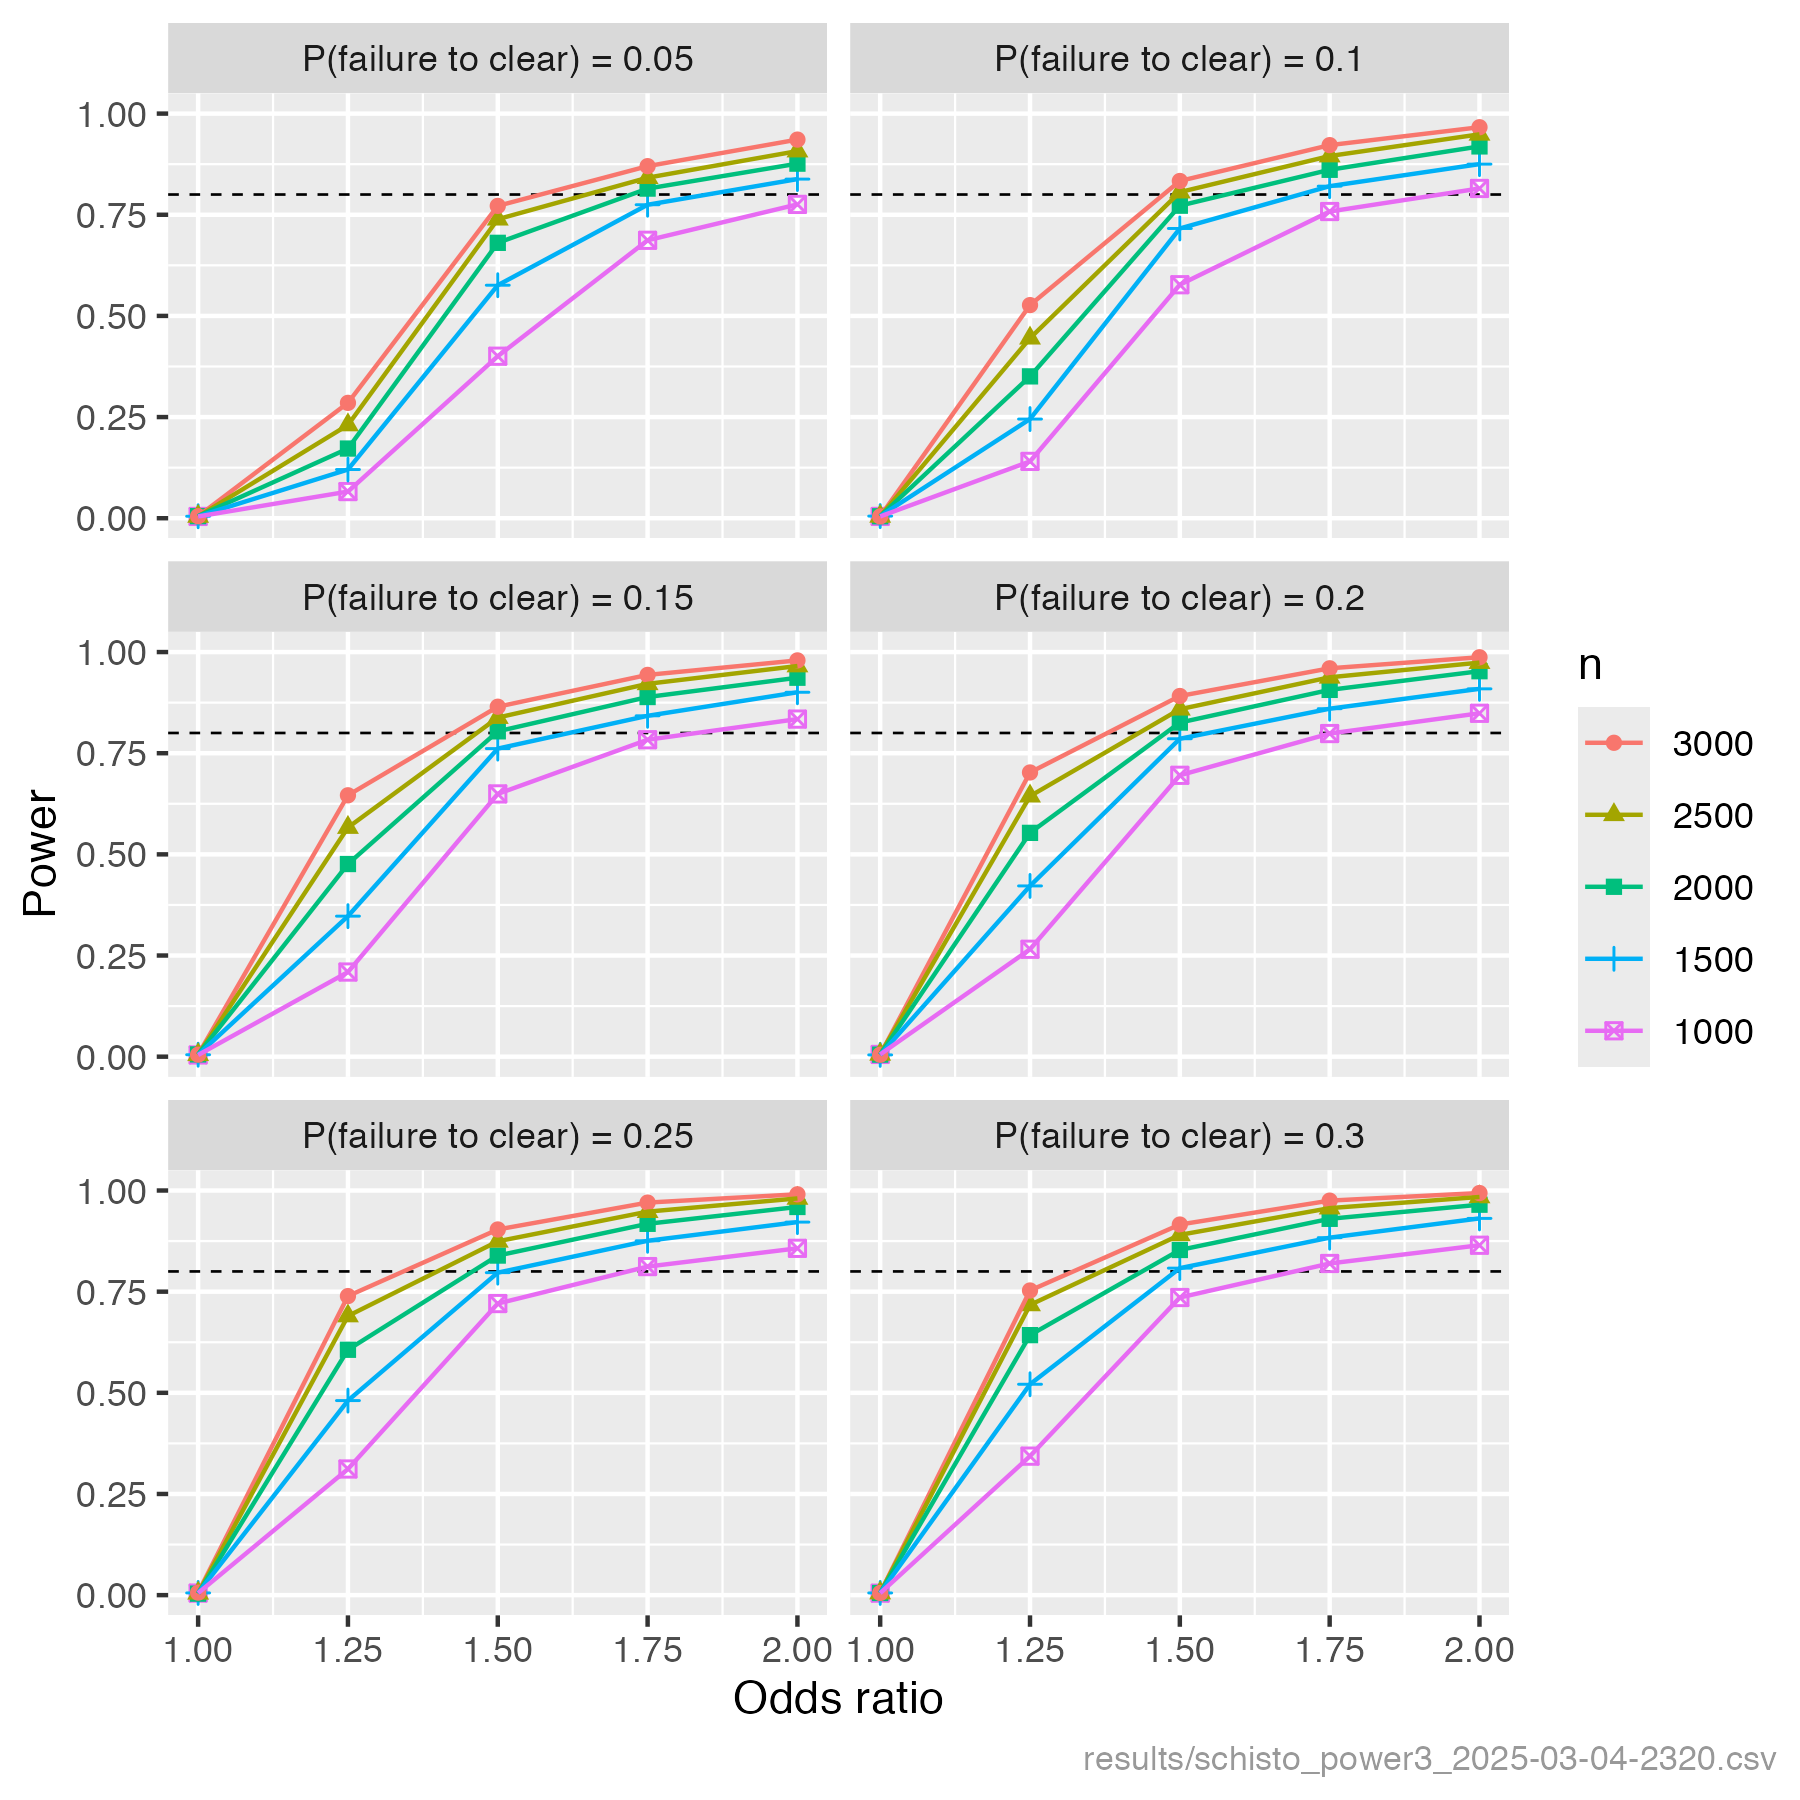
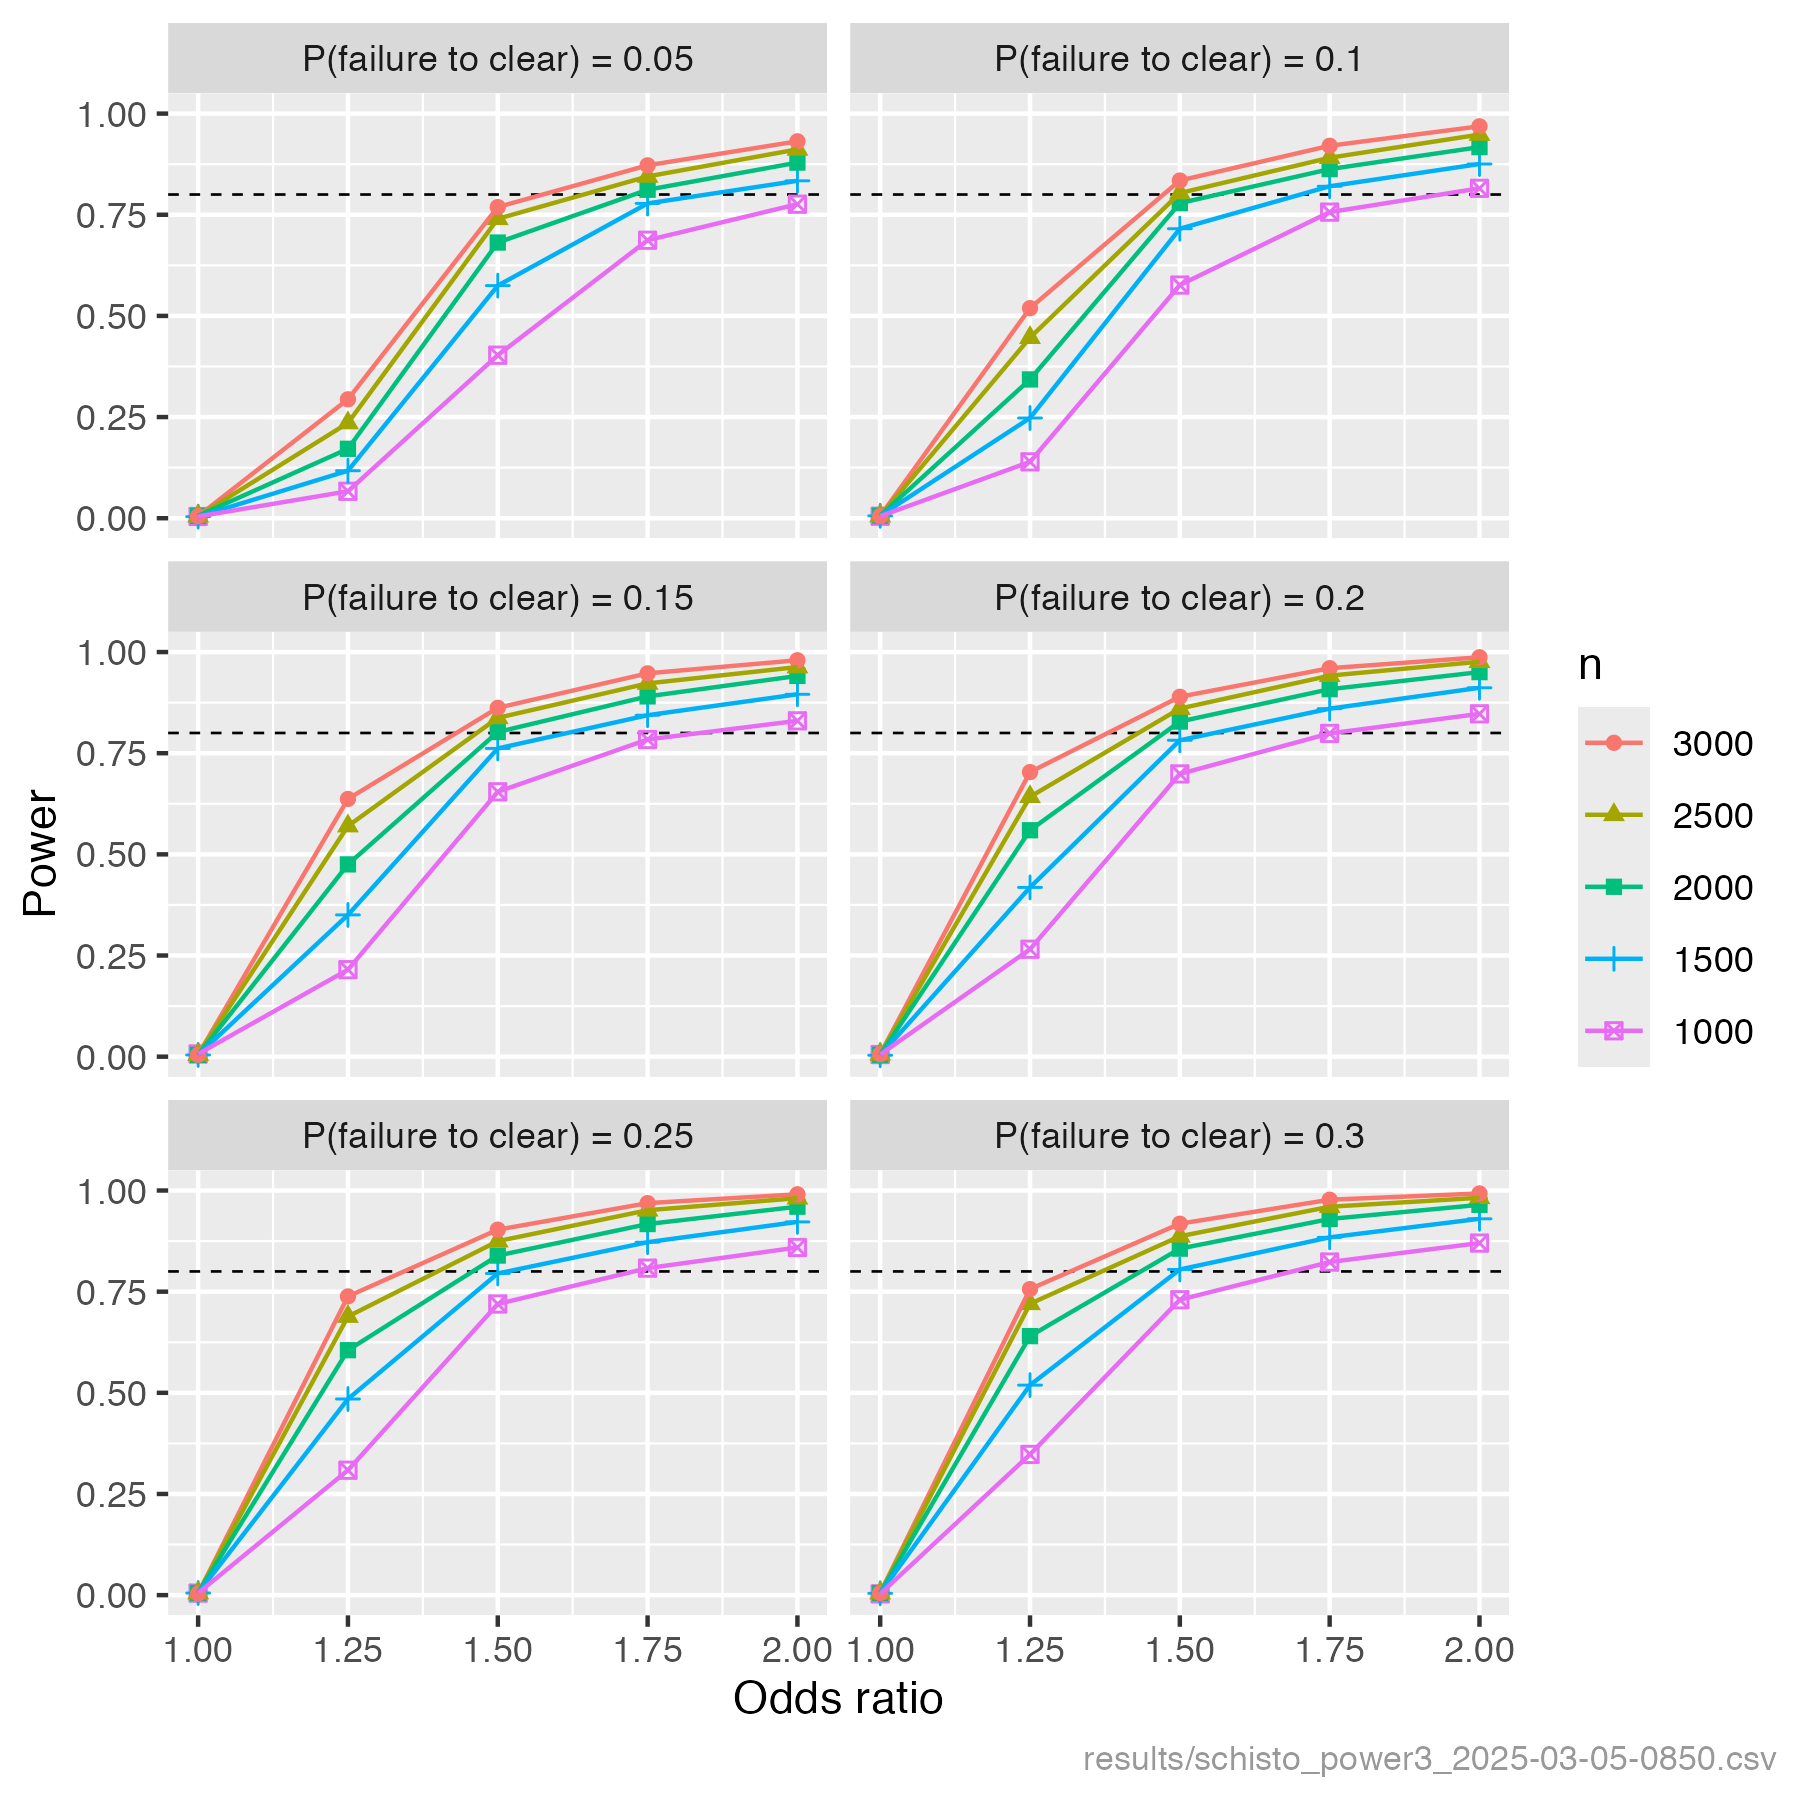
Improve the MoE plots

diff --git a/README.md b/README.md
@@ -24,7 +24,7 @@
 
  ### Methods
 
- The aim of this power analysis is to estimate power to detect drivers of praziquantel treatment failure in individuals infected with schistosomiasis. This is a simulation-based power analysis, where the study data is simulated and analysed multiple times under varying study design scenarios, and power is estimated as the proportion of simulated analyses that achieve the desired outcome (detecting a true driver of treatment failure). The association between the outcome (treatment failure) and each driver is estimated and tested in a multivariable GLM. For this analysis, power is defined as the proportion of drivers that are significantly associated with the outcome, averaged across 2000 simulated data analyses per scenario.
+ The aim of this power analysis is to estimate power to detect drivers of praziquantel treatment failure in individuals infected with schistosomiasis. This is a simulation-based power analysis, where the study data is simulated and analysed multiple times under varying study design scenarios, and power is estimated as the proportion of simulated analyses that achieve the desired outcome (detecting a true driver of treatment failure). The association between the outcome (treatment failure) and each driver is estimated and tested in a multivariable GLM. For this analysis, power is defined as the proportion of drivers that are significantly associated with the outcome, averaged across 1000 simulated data analyses per scenario.
 
  The following assumptions are made:
 - 10 drivers are associated with the outcome, of which 3 are binary and 7 continuous. The prevalences of the binary drivers are: 0.5, 0.2, 0.2, representing  malaria, soil-transmitted helminths, hybrid/resistance presence .
@@ -48,7 +48,7 @@
 
  ### Methods
 
- The aim of this power analysis is to estimate power to detect community-level drivers of schistosomiasis infection, and the expected margin of error around community-level driver odds ratio estimates. This is a simulation-based power analysis, where the study data is simulated and analysed multiple times under varying study design scenarios, and power is estimated as the proportion of simulated analyses that achieve the desired outcome (detecting a true driver of infection). The association between the outcome (infection) and each driver is estimated and tested in a multivariable GLMM. For this analysis, power is defined as the proportion of drivers that are significantly associated with the outcome, averaged across 1000 simulated data analyses per scenario.
+ The aim of this power analysis is to estimate power to detect community-level drivers of schistosomiasis infection, and the expected margin of error around community-level driver odds ratio estimates. This is a simulation-based power analysis, where the study data is simulated and analysed multiple times under varying study design scenarios, and power is estimated as the proportion of simulated analyses that achieve the desired outcome (detecting a true driver of infection). The association between the outcome (infection) and each driver is estimated and tested in a multivariable GLMM. For this analysis, power is defined as the proportion of drivers that are significantly associated with the outcome, averaged across 500 simulated data analyses per scenario.
 
  The following assumptions are made:
 - 4 continuous drivers are associated with the outcome.
